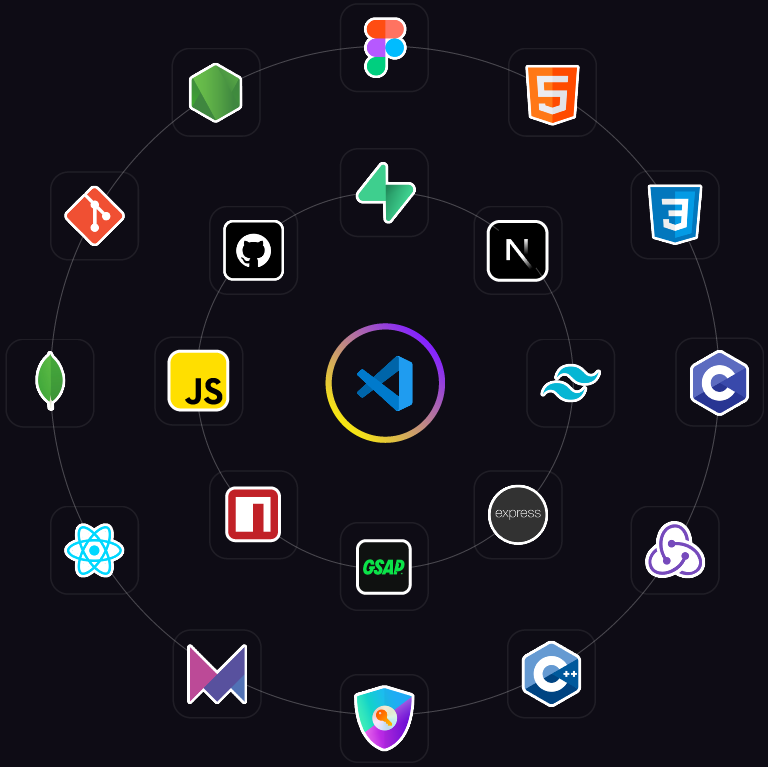
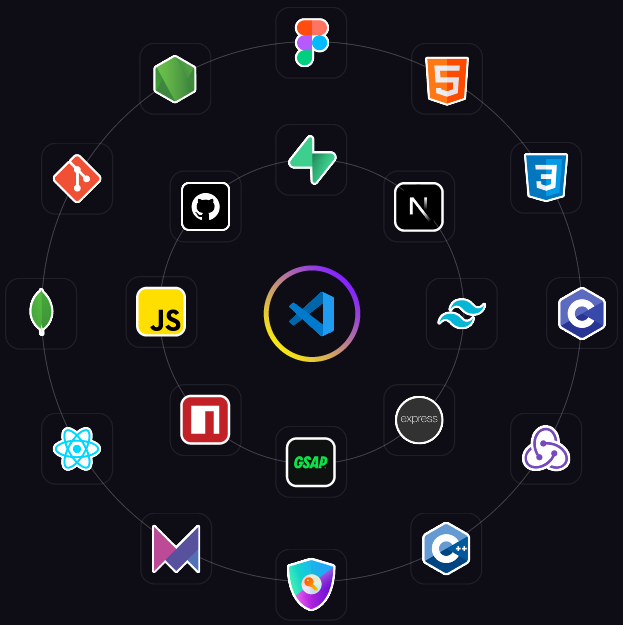
decode

diff --git a/src/components/Skills.jsx b/src/components/Skills.jsx
@@ -57,9 +57,9 @@ const Skills = () => {
         <div className="lg:ml-auto xl:w-[38rem] mt-4">
           {/* / */}
           <div className="  relative left-1/2 flex md:w-[32rem] w-[21rem] aspect-square rounded-full -translate-x-1/2 scale:75 md:scale-100 -top-10 md:top-0  md:mt-10 lg:mt-6 mt-20">
-            <div className=" overflow-hidden rounded-full p-4 bg-[#0E0C15]">
+            
               <Program className={""} />
-            </div>
+            
 
             <LeftCurve />
             {/* <RightCurve /> */}

diff --git a/src/components/Program.jsx b/src/components/Program.jsx
@@ -23,10 +23,12 @@ const program = [
 ];
 const Program = ({className}) => {
   return (
-    <img
-      className={className}
-      src={skillRing}
-    />
+    <div className=" overflow-hidden rounded-full p-4 bg-[#0E0C15] sh">
+      <img
+        className={className}
+        src={skillRing}
+      />
+    </div>
   );
 };
 

diff --git a/src/index.css b/src/index.css
@@ -100,3 +100,9 @@ body::-webkit-scrollbar {
   font-weight: 400;
   font-size: 25px
 }
+
+.sh {
+  box-shadow: 0px 0px 58px 28px rgba(14,12,21,0.9);
+-webkit-box-shadow: 0px 0px 58px 28px rgba(14,12,21,0.9);
+-moz-box-shadow: 0px 0px 58px 28px rgba(14,12,21,0.9);
+}
